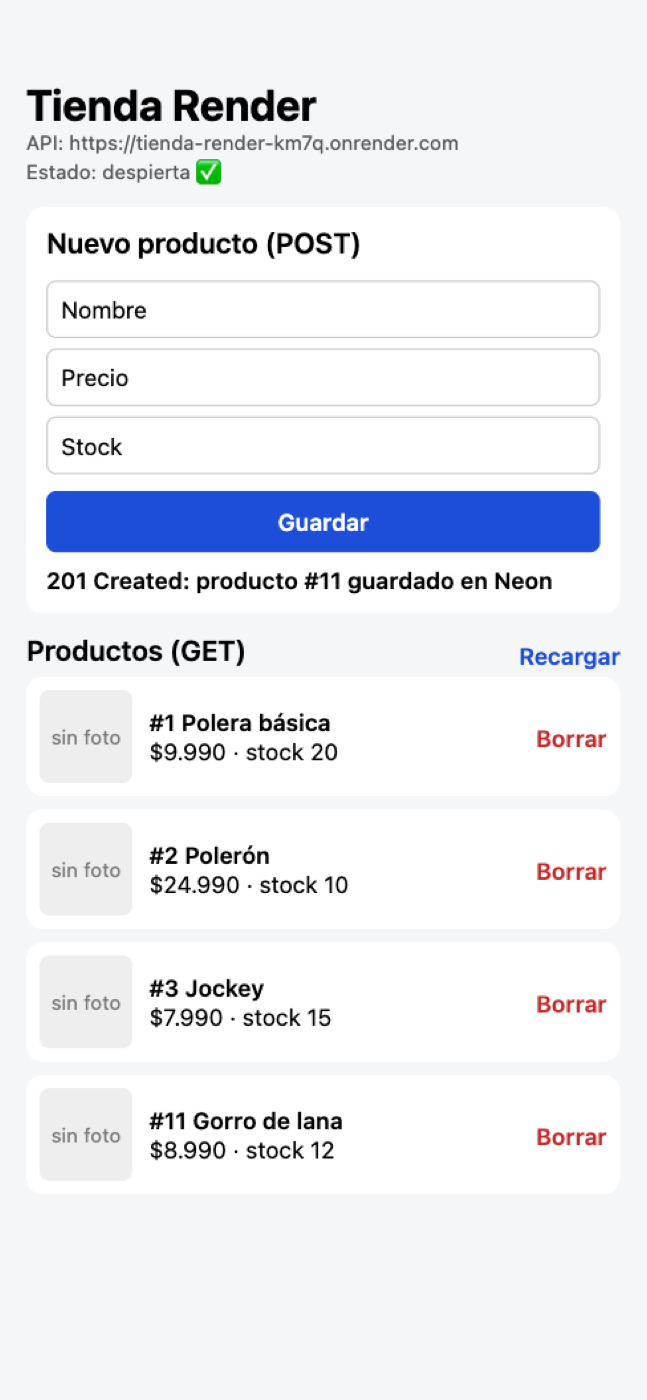
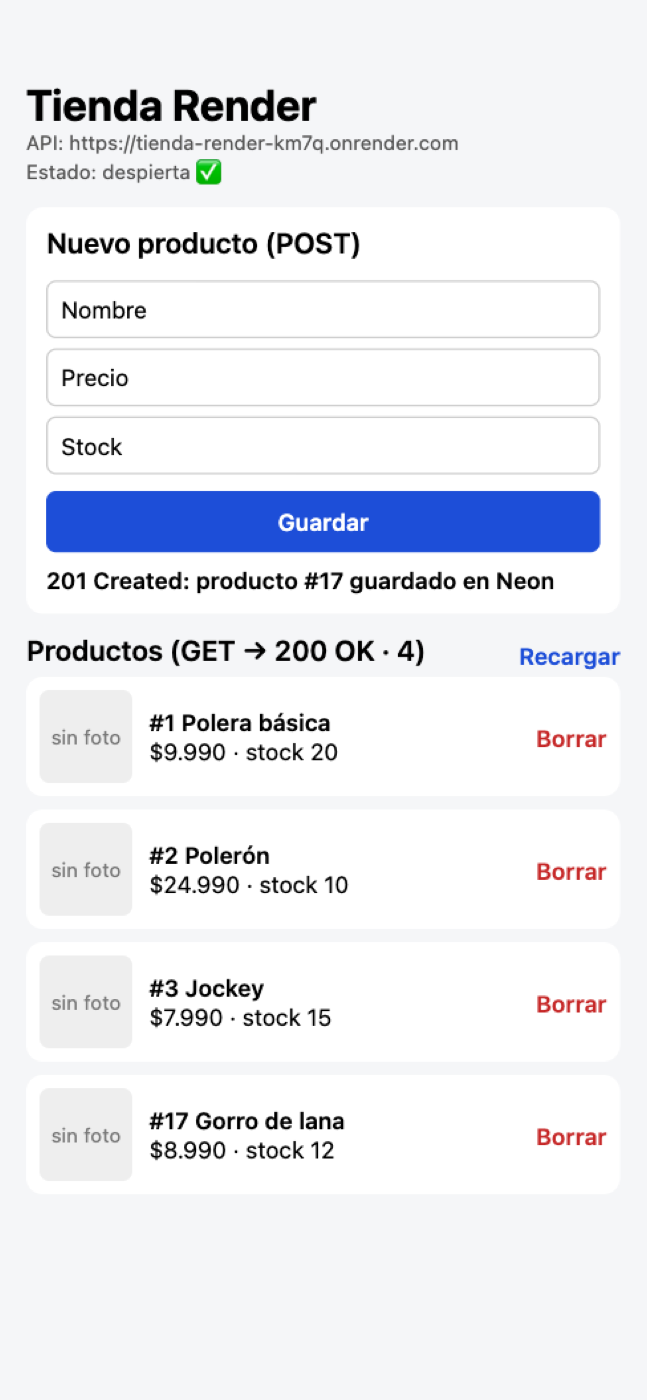
Correcciones tras simular alumnos: Opción B completa, túnel/hotspot, Node 22, errores reales en Problemas frecuentes, confirmación al borrar y teclado iOS

diff --git a/clase2/slides.html b/clase2/slides.html
@@ -787,7 +787,7 @@ td strong.cod{ font-size:26px; }
 </section>
 
 <!-- ============ 9 · ANATOMÍA DE LA RESPUESTA ============ -->
-<section class="slide holgada" data-notas="2 min. La respuesta también tiene tres partes. Mostrar que el código se lee con res.status y el body con res.json(). El 204 llega sin body: por eso un DELETE no se puede leer con res.json().">
+<section class="slide holgada" data-notas="2 min. La respuesta también tiene tres partes. Mostrar que el código se lee con res.status y el body con res.json(). El header Location sirve para pedir el recurso recién creado con GET, sin ir a buscar su id. El 204 llega sin body: por eso un DELETE no se puede leer con res.json().">
   <h2>Una respuesta HTTP tiene tres partes</h2>
 <pre class="grande"><code data-listo="1"><span class="rg a">201 Created</span>
 <span class="rg b">Location: /api/productos/7</span>
@@ -796,7 +796,7 @@ td strong.cod{ font-size:26px; }
 <span class="rg c">{ "id": 7, "nombre": "Polerón", "descripcion": "Con capucha", "precio": 24990, … }</span></code></pre>
   <div class="anatomia">
     <div class="parte"><div class="nombre">Código de estado</div><div class="valor">201 Created</div><div class="dice">Un número que resume cómo te fue. En la app se lee con <code>res.status</code>.</div></div>
-    <div class="parte"><div class="nombre">Headers</div><div class="valor">Location: /api/productos/7</div><div class="dice">Datos extra. <code>Location</code> dice dónde quedó el producto nuevo.</div></div>
+    <div class="parte"><div class="nombre">Headers</div><div class="valor">Location: /api/productos/7</div><div class="dice"><code>Location</code> dice dónde quedó el producto nuevo: lo pides con <code>GET</code> sin buscar su id.</div></div>
     <div class="parte"><div class="nombre">Body</div><div class="valor">{ "id": 7, … }</div><div class="dice">El producto guardado, ya con su <code>id</code>. Se lee con <code>res.json()</code>.</div></div>
   </div>
   <div class="ejemplo" data-ejemplo="código de estado">
@@ -898,12 +898,12 @@ GET /api/getProductos?id=3
 </section>
 
 <!-- ============ 14 · TABLA DE CÓDIGOS ============ -->
-<section class="slide holgada" data-notas="3 min. Recorrer la tabla de arriba abajo con el ejemplo de la última columna. Los dos que sorprenden: 405 (la ruta existe pero con otro método) y 415 (se olvidó el Content-Type). Ambos los van a provocar en Postman en la actividad.">
+<section class="slide holgada" data-notas="3 min. Recorrer la tabla de arriba abajo con el ejemplo de la última columna. Del 201: Location sirve para pedir el recurso recién creado con GET, sin buscar su id. Los dos que sorprenden: 405 (la ruta existe pero con otro método) y 415 (se olvidó el Content-Type). En la actividad (parte C) los provocan en Postman: el 405 con DELETE /api/productos sin id, y el 415 con POST /api/productos con Body raw y el tipo en Text.">
   <h2>Los códigos que vas a usar</h2>
   <table>
     <tr><th style="width:32%">Código</th><th style="width:36%">Cuándo</th><th style="width:32%">Ejemplo en tu API</th></tr>
     <tr class="f2"><td><strong class="cod">200</strong> OK</td><td>Salió bien y hay body</td><td><code>GET /api/productos</code></td></tr>
-    <tr class="f2"><td><strong class="cod">201</strong> Created</td><td>Se creó algo. <code>Location</code> trae su ruta</td><td><code>POST /api/productos</code></td></tr>
+    <tr class="f2"><td><strong class="cod">201</strong> Created</td><td>Se creó algo. <code>Location</code> trae su ruta: úsala para un <code>GET</code></td><td><code>POST /api/productos</code></td></tr>
     <tr class="f2"><td><strong class="cod">204</strong> No Content</td><td>Salió bien y no hay body</td><td><code>DELETE /api/productos/3</code></td></tr>
     <tr class="f4"><td><strong class="cod">400</strong> Bad Request</td><td>Los datos no sirven o el JSON está mal</td><td><code>POST</code> sin <code>nombre</code></td></tr>
     <tr class="f4"><td><strong class="cod">404</strong> Not Found</td><td>Ese recurso o esa ruta no existe</td><td><code>GET /api/productos/99</code></td></tr>
@@ -949,7 +949,7 @@ GET /api/getProductos?id=3
       </button>
       <button class="opcion" data-op="b">
         <span class="letra">B</span><span><code>201 Created</code></span>
-        <span class="porque">Correcto. 201 significa «se creó». Además trae el header <code>Location: /api/productos/7</code> con la ruta del producto nuevo.</span>
+        <span class="porque">Correcto. 201 es «se creó». El header <code>Location: /api/productos/7</code> te deja pedirlo con <code>GET</code>, sin buscar su id.</span>
       </button>
       <button class="opcion" data-op="c">
         <span class="letra">C</span><span><code>204 No Content</code></span>
@@ -1094,7 +1094,7 @@ public class ManejadorErrores {
 </section>
 
 <!-- ============ 22 · PREDICE EL 400 ============ -->
-<section class="slide" data-notas="2 min. Que lo digan antes de revelar. Dos errores a la vez: la API los devuelve todos juntos, no de a uno. Y Neon nunca se entera.">
+<section class="slide" data-notas="2 min. Que lo digan antes de revelar. Dos errores a la vez: la API los devuelve todos juntos, no de a uno. Y Neon nunca se entera. Ojo: si el body no trae stock, aparece también «El stock es obligatorio», y el orden de las claves en campos puede variar.">
   <h2>Predice: un nombre vacío y un precio negativo</h2>
   <div class="widget" data-widget="predice">
     <span class="widget-titulo">Predice el resultado</span>
@@ -1110,7 +1110,7 @@ Content-Type: application/json
 </section>
 
 <!-- ============ 23 · LA MISMA FORMA ============ -->
-<section class="slide" data-notas="2 min. Lo importante para el frontend: status, error, mensaje y ruta están SIEMPRE; campos solo en el 400 de validación. Si la app lee mensaje, tiene algo que mostrar en cualquier error.">
+<section class="slide" data-notas="2 min. Lo importante para el frontend: status, error, mensaje y ruta están SIEMPRE; campos solo en el 400 de validación. Si la app lee mensaje, tiene algo que mostrar en cualquier error. El orden de las claves dentro de campos puede variar.">
   <h2>Todos los errores tienen la misma forma</h2>
   <div class="cols2">
     <div class="diagrama">
@@ -1175,7 +1175,7 @@ Content-Type: application/json
 <span class="linea" data-paso="4">    body: JSON.stringify(producto),</span>
 <span class="linea" data-paso="4">  });</span>
 <span class="linea" data-paso="5">  const data = await res.json();</span>
-<span class="linea" data-paso="5">  if (res.status === 400) throw { status: 400, campos: data.campos };</span>
+<span class="linea" data-paso="5">  if (res.status === 400) throw { status: 400, campos: data.campos ?? {}, mensaje: data.mensaje };</span>
 <span class="linea" data-paso="6">  if (!res.ok) throw new Error(`Error ${res.status}`);</span>
 <span class="linea" data-paso="6">  return data; // 201</span>
 <span class="linea" data-paso="6">}</span></code></pre>
@@ -1183,7 +1183,7 @@ Content-Type: application/json
     <div class="porque-paso" data-paso="2">Por defecto <code>fetch</code> hace <code>GET</code>. Para crear hay que decir <code>POST</code>.</div>
     <div class="porque-paso" data-paso="3">Este header avisa que el body viene en JSON. Si lo olvidas, la API responde <strong>415</strong>.</div>
     <div class="porque-paso" data-paso="4"><code>JSON.stringify</code> convierte el objeto en texto JSON: el body siempre viaja como texto.</div>
-    <div class="porque-paso" data-paso="5">Se lee el body <strong>antes</strong> de revisar el código, porque en un 400 trae <code>campos</code>. Con 400 se lanza un objeto con los mensajes por campo.</div>
+    <div class="porque-paso" data-paso="5">Se lee el body <strong>antes</strong> de revisar el código: en un 400 trae <code>campos</code> y <code>mensaje</code>. <code>?? {}</code> cubre si no vienen.</div>
     <div class="porque-paso" data-paso="6">Cualquier otro error (404, 500…) es un <code>Error</code> genérico. Si salió bien, <code>data</code> es el producto creado, ya con su <code>id</code>.</div>
   </div>
 </section>
@@ -1224,25 +1224,29 @@ return &lt;FlatList data={productos} renderItem={Fila} /&gt;;</code></pre>
 </section>
 
 <!-- ============ 27 · CAMPOS DEL 400 BAJO CADA INPUT ============ -->
-<section class="slide" data-notas="3 min. Aquí se cierra el círculo con las validaciones: los mensajes que escribimos en Producto.java en español son los que aparecen bajo cada input. La clave de campos coincide con el nombre del atributo: errores.nombre, errores.precio.">
+<section class="slide" data-notas="3 min. Aquí se cierra el círculo con las validaciones: los mensajes que escribimos en Producto.java en español son los que aparecen bajo cada input. La clave de campos coincide con el nombre del atributo: errores.nombre, errores.precio. Ojo: Number('') da 0, y así el backend no diría «obligatorio». Por eso, si el input está vacío se envía null (igual que App.js del repositorio).">
   <h2>Los mensajes del 400, bajo cada input</h2>
   <div class="cols-codigo">
-<pre class="chico"><code>const [errores, setErrores] = useState({});
+<pre class="chico"><code>const [form, setForm] = useState(formularioVacio);
+const [errores, setErrores] = useState({});
 
 async function guardar() {
   const producto = {
-    nombre, precio: Number(precio), stock: Number(stock),
+    nombre: form.nombre,
+    precio: form.precio === '' ? null : Number(form.precio),
+    stock: form.stock === '' ? null : Number(form.stock),
   };
   try {
     await crearProducto(producto);
     setErrores({});
   } catch (e) {
     if (e.status === 400) setErrores(e.campos);
-    else Alert.alert('Ups', e.message);
+    else setAviso(e.message);
   }
 }
 
-&lt;TextInput value={nombre} onChangeText={setNombre} /&gt;
+&lt;TextInput value={form.nombre}
+  onChangeText={(nombre) =&gt; setForm({ ...form, nombre })} /&gt;
 {errores.nombre &amp;&amp; &lt;Text style={s.error}&gt;{errores.nombre}&lt;/Text&gt;}</code></pre>
     <div>
       <div class="celular">
@@ -1321,7 +1325,7 @@ async function guardar() {
 </section>
 
 <!-- ============ 30 · PLAN FREE ============ -->
-<section class="slide" data-notas="2 min. Datos de la documentación oficial de Render (render.com/docs/free). El cálculo de las 744 horas lo hacen ellos: 31 días por 24 horas. Dos servicios 24/7 son 1.488 horas y no caben en las 750.">
+<section class="slide" data-notas="2 min. Datos de la documentación oficial de Render (render.com/docs/free). Tu cuenta trae un workspace (My Workspace) y las 750 horas son de ese workspace. El cálculo de las 744 horas lo hacen ellos: 31 días por 24 horas. Dos servicios 24/7 son 1.488 horas y no caben en las 750.">
   <h2>El plan Free: gratis, pero se duerme</h2>
   <div class="cols3">
     <div class="tarjeta">
@@ -1337,7 +1341,7 @@ async function guardar() {
     <div class="tarjeta">
       <div class="cifra">750<small> h</small></div>
       <h3>Al mes</h3>
-      <p>Horas Free por workspace, compartidas entre todos tus servicios.</p>
+      <p>Horas Free por workspace, para todos tus servicios. Tu cuenta trae uno: My Workspace.</p>
     </div>
   </div>
   <div class="ejemplo">
@@ -1477,28 +1481,28 @@ public Map&lt;String, String&gt; salud() {
 </section>
 
 <!-- ============ 34 · ACTIVIDAD ============ -->
-<section class="slide holgada" data-notas="2 min para explicarla; el resto del bloque 3 para hacerla (unos 40 minutos). Instrucciones completas, con evidencias, en clase2/ACTIVIDAD.md del repositorio tienda-render. Recordar: un solo servicio Free por equipo.">
+<section class="slide holgada" data-notas="2 min para explicarla; el resto del bloque 3 para hacerla (unos 40 minutos). Instrucciones completas, con evidencias, en clase2/ACTIVIDAD.md del repositorio tienda-render. Recordar: una sola cuenta de Render y un solo servicio con robot por equipo.">
[1 lines of base64/hex data omitted]
   <p>Repositorio: <code>github.com/Umbingelelo/tienda-render</code>. Las instrucciones completas están en <code>clase2/ACTIVIDAD.md</code>.</p>
   <table>
     <tr><th>Parte</th><th>Qué queda hecho</th></tr>
     <tr><td><strong>A</strong></td><td>Backend desplegado en Render con Docker y variables de entorno. <code>GET /api/health</code> responde en la URL pública.</td></tr>
     <tr><td><strong>B</strong></td><td>Monitor en UptimeRobot que visita <code>/api/health</code> cada 5 minutos.</td></tr>
-    <tr><td><strong>C</strong></td><td>Rutas y códigos probados en Postman contra la URL pública: 200, 201, 204, 400 y 404.</td></tr>
-    <tr><td><strong>D</strong></td><td>App Expo que lista y crea productos usando la URL pública, con cargando, error y los mensajes del 400.</td></tr>
+    <tr><td><strong>C</strong></td><td>Rutas y códigos probados en Postman contra la URL pública: 200, 201, 204, 400, 404, 405 y 415.</td></tr>
+    <tr><td><strong>D</strong></td><td>App Expo que lista, crea y borra productos usando la URL pública, con cargando, error y los mensajes del 400.</td></tr>
   </table>
   <p class="suave">En Postman usa la URL de Render, no <code>localhost</code>: así pruebas lo mismo que verá tu app.</p>
 </section>
 
 <!-- ============ 35 · PARTE A EN 4 PASOS ============ -->
-<section class="slide" data-notas="1 min. Resumen de la parte A para quien se pierda; el detalle con capturas está en la actividad. La primera construcción con Docker tarda unos minutos: aprovechar ese tiempo para crear el robot (parte B). El paso 3 es el error más probable: sin las tres variables Spring no arranca.">
+<section class="slide" data-notas="1 min. Resumen de la parte A para quien se pierda; el detalle con capturas está en la actividad. La primera construcción con Docker tarda unos minutos: aprovechar ese tiempo para crear el robot (parte B). El paso 3 es el error más probable: si falta DB_URL, Spring Boot 4.1 no arranca y la consola dice que la url debe empezar con jdbc.">
   <h2>Parte A en cuatro pasos</h2>
   <div class="diagrama">
     <span class="rotulo">De tu repositorio a la URL pública</span>
     <div class="secuencia">
       <div class="paso-seq"><span class="n">1</span><div><div class="quien">Render</div><div class="que">Crea un <strong>Web Service</strong> y conéctalo a tu repositorio de GitHub.</div></div></div>
       <div class="paso-seq"><span class="n">2</span><div><div class="quien">Render</div><div class="que">Elige <strong>Docker</strong> como lenguaje y el plan <strong>Free</strong>.</div></div></div>
-      <div class="paso-seq corta"><span class="n">3</span><div><div class="quien">Render, Environment</div><div class="que">Agrega <code>DB_URL</code>, <code>DB_USERNAME</code> y <code>DB_PASSWORD</code>. Si falta una, el servicio falla con <code>Could not resolve placeholder 'DB_URL'</code>.</div></div></div>
+      <div class="paso-seq corta"><span class="n">3</span><div><div class="quien">Render, Environment</div><div class="que">Agrega <code>DB_URL</code>, <code>DB_USERNAME</code> y <code>DB_PASSWORD</code>. Si falta <code>DB_URL</code>, el servicio falla con <code>'url' must start with "jdbc"</code>.</div></div></div>
       <div class="paso-seq"><span class="n">4</span><div><div class="quien">Navegador</div><div class="que">Espera a que diga <strong>Live</strong> y abre <code>/api/health</code> en tu URL: debe mostrar <code>{"estado":"ok"}</code>.</div></div></div>
     </div>
     <p class="pie-diagrama">La primera construcción tarda unos minutos: mientras tanto, crea el robot de la parte B.</p>

diff --git a/app-movil/App.js b/app-movil/App.js
@@ -2,8 +2,10 @@ import { StatusBar } from 'expo-status-bar';
 import { useEffect, useState } from 'react';
 import {
   ActivityIndicator,
+  Alert,
   FlatList,
   Image,
+  Platform,
   Pressable,
   StyleSheet,
   Text,
@@ -13,6 +15,8 @@ import {
 import { API_URL, crearProducto, eliminarProducto, listarProductos, salud } from './src/api';
 
 const formularioVacio = { nombre: '', precio: '', stock: '' };
+// El teclado numérico de iPhone no trae la tecla "-": este sí, para poder probar el 400 con -1.
+const tecladoNumerico = Platform.OS === 'ios' ? 'numbers-and-punctuation' : 'numeric';
 
 export default function App() {
   const [productos, setProductos] = useState([]);
@@ -78,6 +82,18 @@ export default function App() {
     }
   }
 
+  function confirmarBorrado(item) {
+    const pregunta = `¿Borrar "${item.nombre}" (#${item.id})?`;
+    if (Platform.OS === 'web') {
+      if (window.confirm(pregunta)) borrar(item.id);
+      return;
+    }
+    Alert.alert('Borrar producto', pregunta, [
+      { text: 'Cancelar', style: 'cancel' },
+      { text: 'Borrar', style: 'destructive', onPress: () => borrar(item.id) },
+    ]);
+  }
+
   return (
     <View style={styles.pantalla}>
       <StatusBar style="dark" />
@@ -97,7 +113,7 @@ export default function App() {
         <TextInput
           style={styles.input}
           placeholder="Precio"
-          keyboardType="numeric"
+          keyboardType={tecladoNumerico}
           value={form.precio}
           onChangeText={(precio) => setForm({ ...form, precio })}
         />
@@ -105,7 +121,7 @@ export default function App() {
         <TextInput
           style={styles.input}
           placeholder="Stock"
-          keyboardType="numeric"
+          keyboardType={tecladoNumerico}
           value={form.stock}
           onChangeText={(stock) => setForm({ ...form, stock })}
         />
@@ -117,7 +133,9 @@ export default function App() {
       </View>
 
       <View style={styles.filaTitulo}>
-        <Text style={styles.subtitulo}>Productos (GET)</Text>
+        <Text style={styles.subtitulo}>
+          Productos (GET{!cargando && !error ? ` → 200 OK · ${productos.length}` : ''})
+        </Text>
         <Pressable onPress={cargar} accessibilityRole="button">
           <Text style={styles.link}>Recargar</Text>
         </Pressable>
@@ -148,7 +166,7 @@ export default function App() {
                 <Text style={styles.nombre}>#{item.id} {item.nombre}</Text>
                 <Text>${item.precio.toLocaleString('es-CL')} · stock {item.stock}</Text>
               </View>
-              <Pressable onPress={() => borrar(item.id)} accessibilityRole="button" accessibilityLabel={`Borrar ${item.nombre}`}>
+              <Pressable onPress={() => confirmarBorrado(item)} accessibilityRole="button" accessibilityLabel={`Borrar ${item.nombre}`}>
                 <Text style={styles.borrar}>Borrar</Text>
               </Pressable>
             </View>

diff --git a/clase2/ACTIVIDAD.md b/clase2/ACTIVIDAD.md
@@ -16,11 +16,12 @@ Que el backend de la tienda del equipo:
 - La base de **Neon** de la Clase 1 y su `.env` (los 3 datos). Si no la tienen, hagan primero los pasos 1 y 2 de https://github.com/Umbingelelo/tienda-neon.
 - Cuenta de **GitHub** (cada integrante).
 - **Postman** (web o escritorio).
-- Para la Parte D: **Node.js 20+** en el PC y **Expo Go** actualizado en el celular.
+- Para la Parte D: **Node.js 22 LTS o superior** (mínimo 22.13) en el PC y **Expo Go** actualizado en el celular.
 - Guía completa, con capturas: el **README** de https://github.com/Umbingelelo/tienda-render. Los pasos de abajo dicen qué paso del README seguir.
 - Repartan roles: **Nube** (Partes A y B, en su cuenta) · **Rutas** (Parte C) · **App** (Parte D).
+- **Trabajen en paralelo:** mientras Nube despliega (tarda), **Rutas** arma las peticiones en Postman y **App** hace `npm install`, instala Expo Go y prueba con la URL del profesor que ya viene en `app-movil/src/api.js` (creen y borren **solo sus** productos). Cuando Nube entregue la URL, cambien solo la URL base.
 
-> ⚠ **Una sola cuenta de Render y un solo servicio con robot por equipo.** Render da 750 horas gratis al mes por cuenta y un servicio despierto todo el mes usa ~744. Si alguien crea un segundo servicio "de prueba" con robot, Render suspende todo.
+> ⚠ **Una sola cuenta de Render y un solo servicio con robot por equipo.** Render da 750 horas gratis al mes por workspace (cada cuenta trae uno) y un servicio despierto todo el mes usa ~744. Si alguien crea un segundo servicio "de prueba" con robot, Render suspende todo.
 
 ---
 
@@ -28,7 +29,7 @@ Que el backend de la tienda del equipo:
 
 1. **Repositorio** (README, paso 0). Elijan **una** opción:
    - **A1 (recomendada):** en el repo del profesor, **Use this template → Create a new repository** → nombre `tienda-<equipo>`.
-   - **A2:** usar el backend del equipo de la Clase 1, copiando `Dockerfile`, `.dockerignore`, `SaludController.java` y `ManejadorErrores.java` (ajustando el `package`).
+   - **A2:** usar el backend del equipo de la Clase 1, copiando los archivos de la tabla **Opción B** del README (incluye reemplazar `Producto`, `ProductoRepository` y `ProductoController`, y copiar `app-movil/`). Prueben `http://localhost:8080/api/health` en su PC antes de subir.
 
    Confirmen en GitHub que **no** está el archivo `.env`.
 2. Crear cuenta en **https://dashboard.render.com/register** con **GitHub** (paso 1).
@@ -56,7 +57,7 @@ Que el backend de la tienda del equipo:
 
 ## Parte C: Rutas y códigos con Postman (todo el equipo, contra la URL pública)
 
-Hagan las 8 peticiones de la tabla del **README, paso 7**, usando **su** URL. Para cada una anoten el código que recibieron:
+Hagan las 9 peticiones de la tabla del **README, paso 7**, usando **su** URL. Para cada una anoten el código que recibieron:
 
 | # | Petición | Código esperado | Código obtenido |
 |---|---|---|---|
@@ -67,26 +68,27 @@ Hagan las 8 peticiones de la tabla del **README, paso 7**, usando **su** URL. Pa
 | 5 | `POST /api/productos` con un JSON roto | 400 | |
 | 6 | `GET /api/productos/99999` | 404 | |
 | 7 | `DELETE /api/productos` (sin id) | 405 | |
-| 8 | `DELETE /api/productos/{id del #3}` | 204 | |
+| 8 | `DELETE /api/productos/{id que devolvió la #3}` | 204 | |
+| 9 | `POST /api/productos` con Body **raw → Text** | 415 | |
 
 Luego respondan en 1 o 2 líneas cada una:
 1. En la petición 3, ¿qué dice el header `Location` de la respuesta y para qué sirve?
 2. En la petición 4, ¿en qué parte del JSON de error está el mensaje de **cada** campo?
 3. ¿Por qué estas rutas son correctas y `POST /api/crearProducto` no lo sería?
 
-**Evidencia C:** la tabla completa y captura de Postman de las peticiones **3** (con la pestaña **Headers** mostrando `Location`) y **4** (con `campos`).
+**Evidencia C:** la tabla completa y captura de Postman de las peticiones **3** (con los **Headers de la respuesta** mostrando `Location`) y **4** (con `campos`).
 
 ## Parte D: La app en el celular (README, paso 9)
 
-1. Descargar el repositorio del equipo (**Code → Download ZIP**, o `git clone`) y abrir la carpeta `app-movil` en VS Code.
+1. Descargar el repositorio del equipo (**Code → Download ZIP**, o `git clone`) y abrir en VS Code **la carpeta del repositorio** (la que contiene `app-movil`). Si su repo no tiene `app-movil` (A2 sin copiarla), descárguenla del repo del profesor.
 2. En `app-movil/src/api.js` cambiar `API_URL` por **su** URL de Render (sin `/` al final).
 3. En la terminal: `cd app-movil` → `npm install` → `npx expo start`.
-4. Abrir **Expo Go** en el celular y escanear el QR. Si no conecta: `npx expo start --tunnel`.
+4. Abrir **Expo Go** en el celular y escanear el QR. Si no conecta: usen el **hotspot** del celular para el PC, o `npx expo login` + `npx expo start --tunnel` (README, paso 9.2).
 5. En la app:
-   - ver la lista de productos (**200**);
+   - ver la lista de productos (`GET → 200 OK`);
    - guardar con el nombre vacío y precio `-1` y ver los mensajes bajo cada campo (**400**);
-   - crear un producto real de su tienda (**201**);
-   - borrar ese producto (**204**).
+   - crear un producto real de su tienda (**201**) y **tomar la captura en ese momento**;
+   - borrar ese producto (**204**), no los de ejemplo.
 
 **Evidencia D:** foto o captura **del celular** mostrando la app con: (1) los errores del 400 bajo los campos y (2) el aviso `201 Created`.
 
@@ -95,10 +97,12 @@ Luego respondan en 1 o 2 líneas cada una:
 Agreguen al backend una ruta nueva que respete las reglas de nombres, por ejemplo **productos con poco stock**:
 
 - `GET /api/productos?stockMax=5` → 200 + productos con `stock <= 5`.
-  - En `ProductoRepository`: `List<Producto> findByStockLessThanEqual(Integer stock);`
-  - En `ProductoController.listar(...)`: un segundo `@RequestParam(required = false) Integer stockMax`.
+  - En `ProductoRepository`: `List<Producto> findByStockLessThanEqual(Integer stock);` (necesita `import java.util.List;`).
+  - En `ProductoController.listar(...)`: agreguen un segundo parámetro `@RequestParam(required = false) Integer stockMax` y úsenlo antes del `return`: `if (stockMax != null) return repository.findByStockLessThanEqual(stockMax);`
+  - Piensen: si llegan `nombre` y `stockMax` juntos, ¿qué debería responder? (Pista: Spring también entiende `findByNombreContainingIgnoreCaseAndStockLessThanEqual(nombre, stockMax)`.)
+  - El nombre del parámetro distingue mayúsculas: `?stockmax=5` se ignora sin error.
 - Hagan `git push` y comprueben que Render la desplegó solo (**Events**).
-- Muéstrenla en la app (un botón "Poco stock").
+- Muéstrenla en la app: en `src/api.js` copien `listarProductos()` como `listarPocoStock()` con `` fetch(`${API_URL}/api/productos?stockMax=5`) `` y agreguen un botón "Poco stock".
 
 **Evidencia:** captura de Postman con la ruta nueva respondiendo desde la URL de Render.
 
@@ -119,9 +123,9 @@ Agreguen al backend una ruta nueva que respete las reglas de nombres, por ejempl
 |---|---|---|---|
 | A. Despliegue | Servicio **Live** en plan Free, URL pública responde, claves solo en variables de entorno | Desplegado, pero con claves en el repositorio o no responde siempre | No desplegado |
 | B. Robot | Monitor **Up** cada 5 min a `/api/health` y respuesta correcta | Monitor creado, pero a otra ruta o sin explicar el porqué | Sin robot |
-| C. Rutas y códigos | Los 8 códigos obtenidos coinciden y las 3 respuestas son correctas | 5 a 7 códigos correctos, o respuestas incompletas | Menos de 5 |
+| C. Rutas y códigos | Los 9 códigos obtenidos coinciden y las 3 respuestas son correctas | 6 a 8 códigos correctos, o respuestas incompletas | Menos de 6 |
 | D. App | La app en el celular consume **su** URL y muestra 200, 400, 201 y 204 | Funciona solo en el navegador del PC, o contra la URL del profesor | No funciona |
 
 ## Si algo falla
 
-Revisen la tabla **"Problemas frecuentes"** del README antes de llamar al docente. En Render, abran **Logs** y busquen la **primera** línea que diga `Caused by:`.
+Revisen la tabla **"Problemas frecuentes"** del README antes de llamar al docente. En Render, abran **Logs** y busquen las líneas `Caused by:`: la **última** suele ser la causa real.
